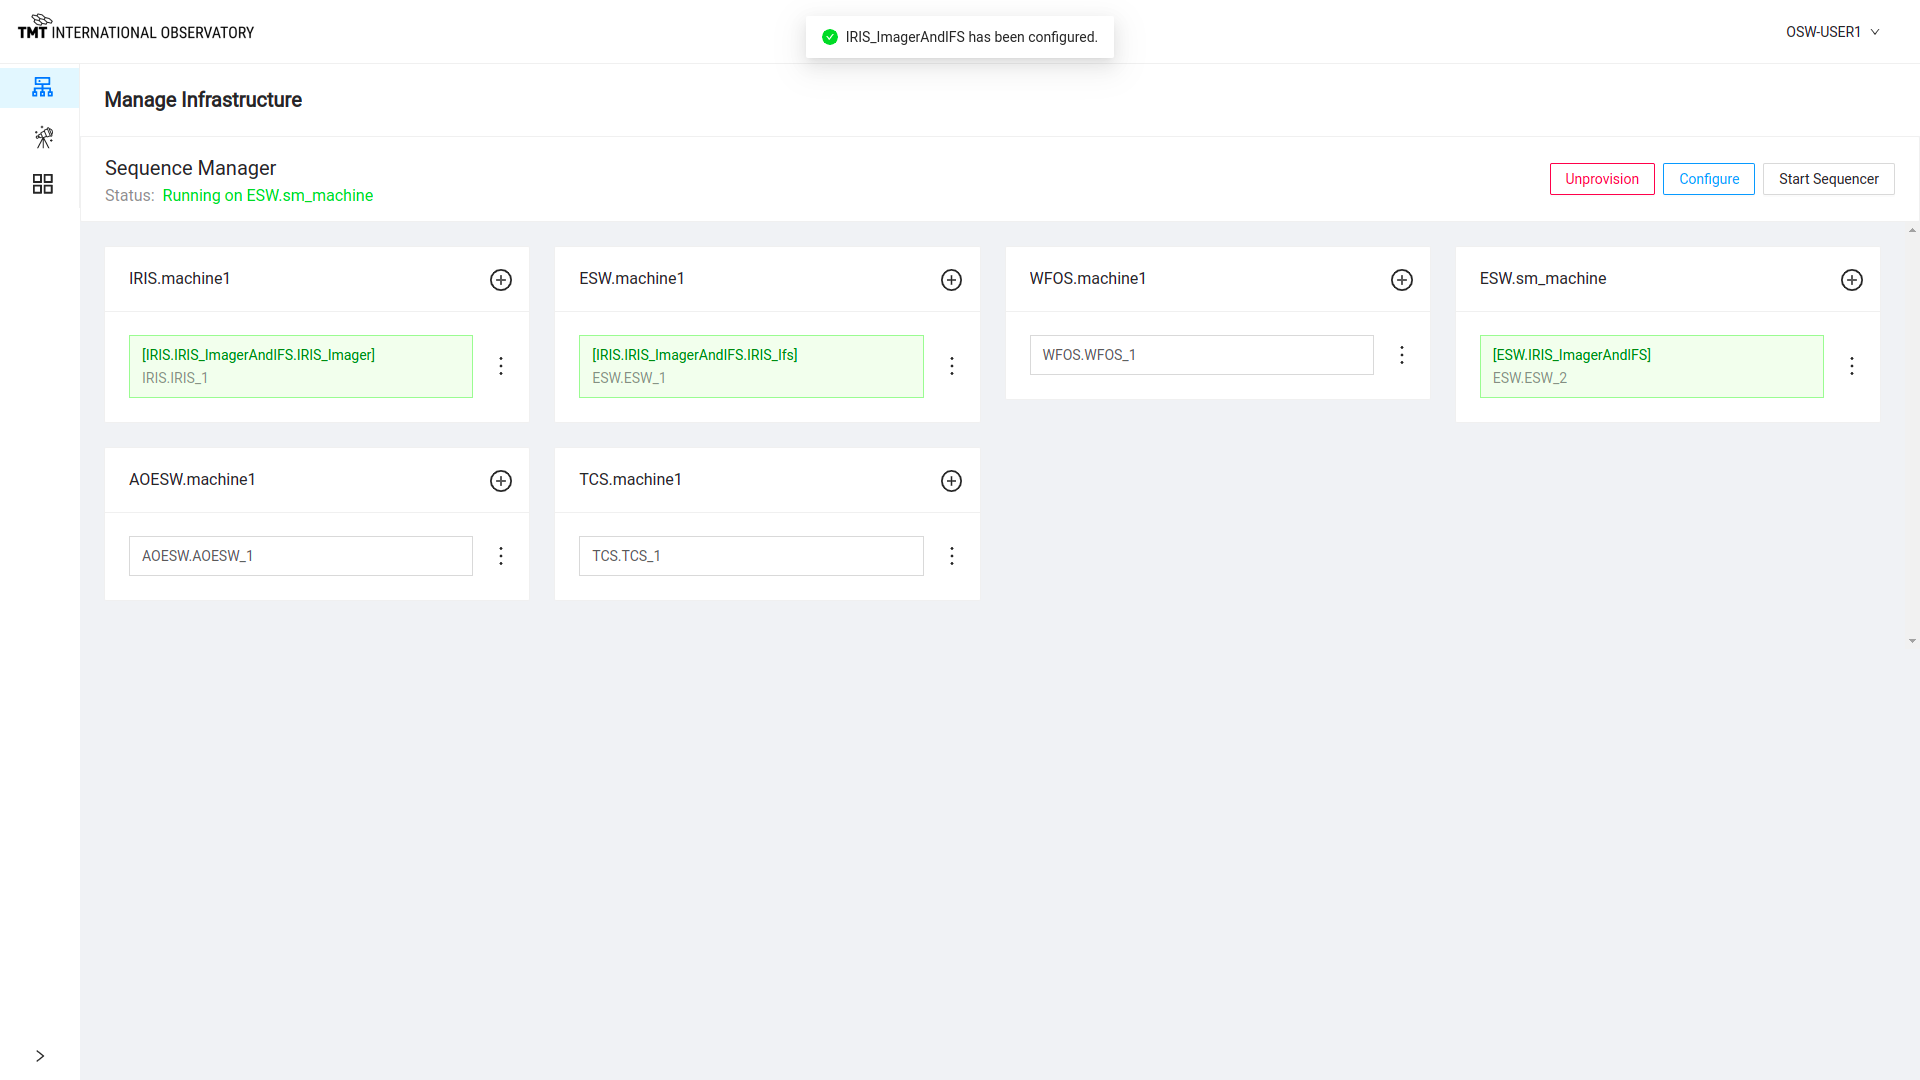
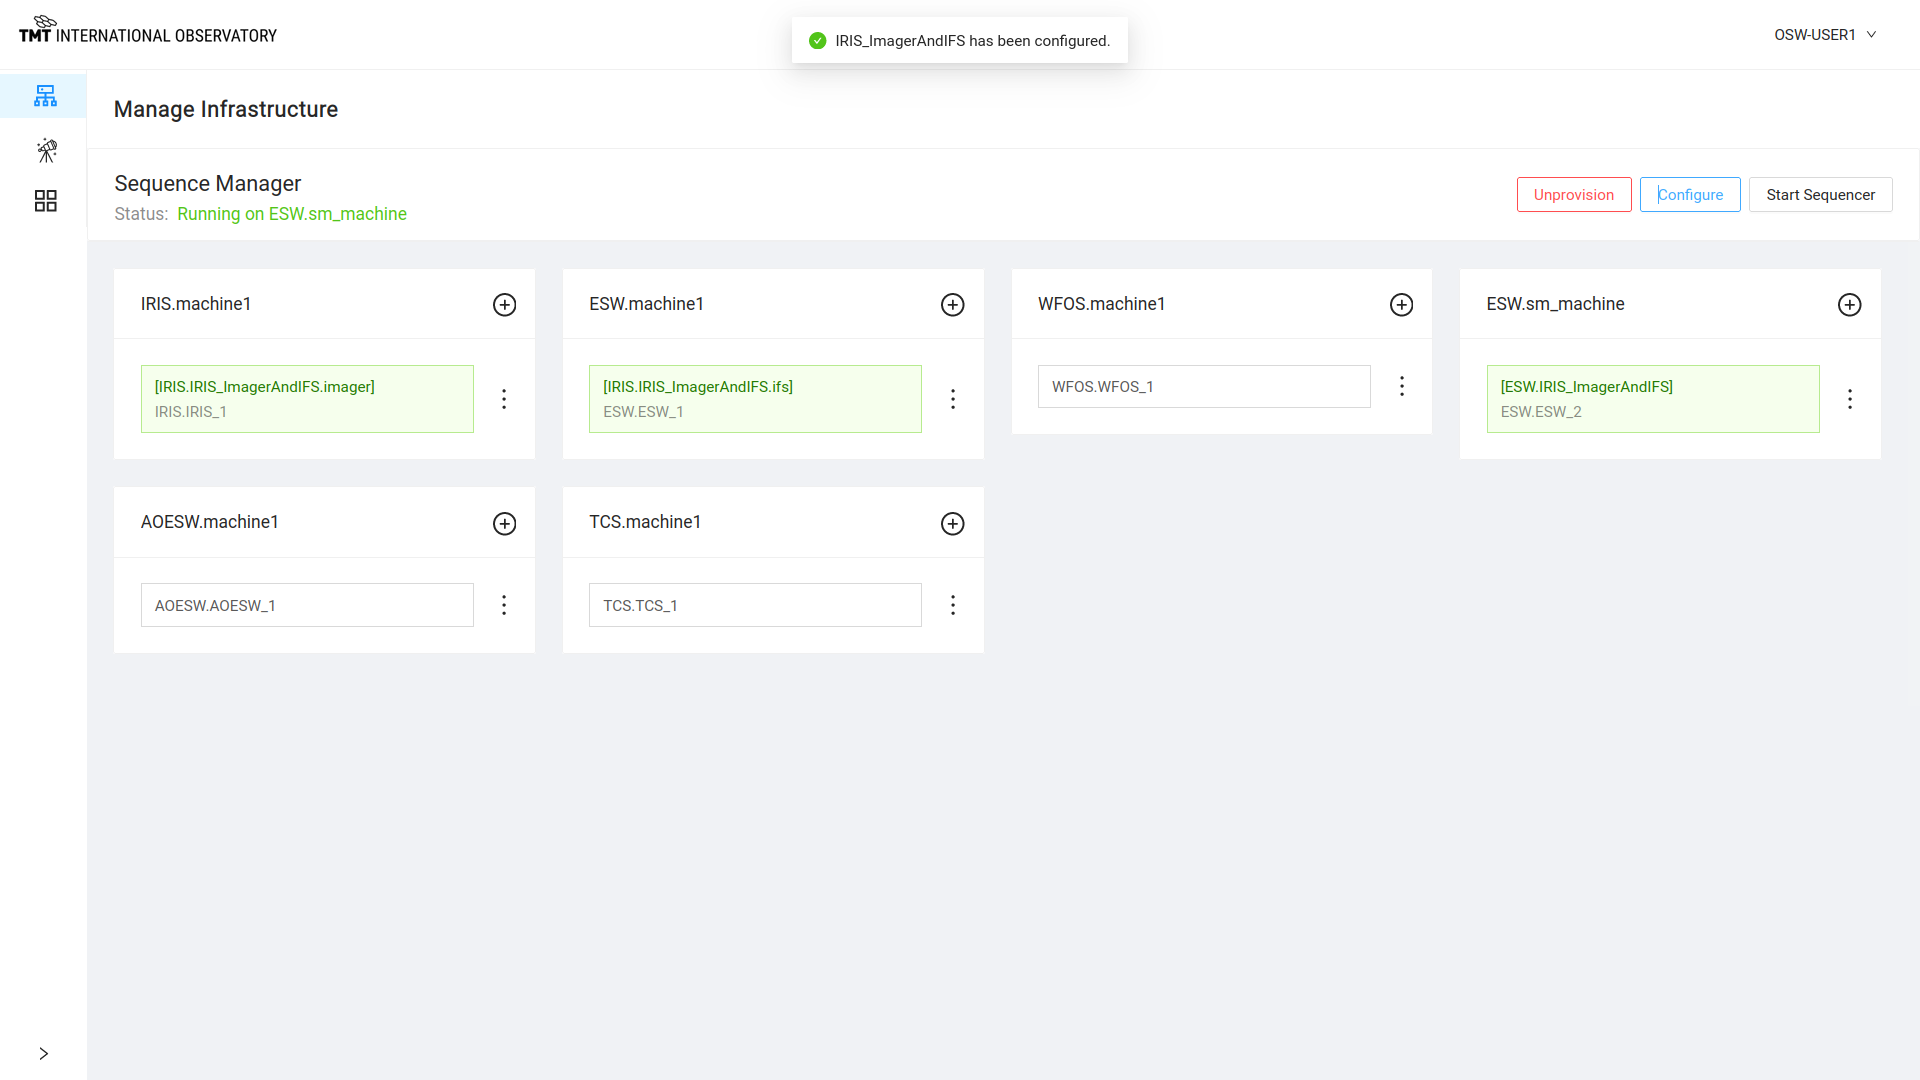
Rajalakshmi|ESW-568 Change to snapshot, docs and script of start esw-services

diff --git a/docs/src/main/ManageInfrastructure.md b/docs/src/main/ManageInfrastructure.md
@@ -69,7 +69,7 @@ Optional parameter Variation can be used to differentiate between any two sequen
 ![Write Variation](./images/ManageInfrastructure_StartSequencerWithVariationExample.png)
 
 After selecting Subsystem, ObsMode and optional Variation, the Sequencer will be started with the proper Script.
-In the following example, a Sequencer has been started for the IRIS_ImagerAndIFS obsMode on IRIS.machine1 with a variation as IRIS_Imager.
+In the following example, a Sequencer has been started for the `IRIS_ImagerAndIFS` obsMode on IRIS.machine1 with a variation as `imager`.
 
 ![Started Sequencer](./images/ManageInfrastructure_StartedSequencerWithVariation.png)
 
@@ -133,6 +133,6 @@ The figure below shows that the Sequence Components were configured successfully
 
 ![ClickConfigureButton](./images/ConfiguredSuccessfully.png)
 
-This screenshot shows that the IRIS_ImagerAndIFS obsMode was started with Sequencers for IRIS, and ESW with variation as `IRIS_Imager` and `IRIS_Ifs`. The card shows what machine each Sequencer is running on and what Script is running in the Sequencer.
+This screenshot shows that the IRIS_ImagerAndIFS obsMode was started with Sequencers for IRIS, and ESW with variation as `imager` and `ifs`. The card shows what machine each Sequencer is running on and what Script is running in the Sequencer.
 
 Configure can also be done from @ref[Manage Observation Page](ManageObservation.md)
